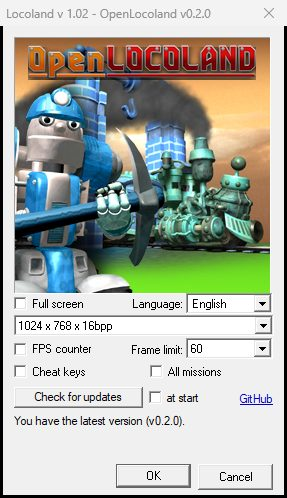
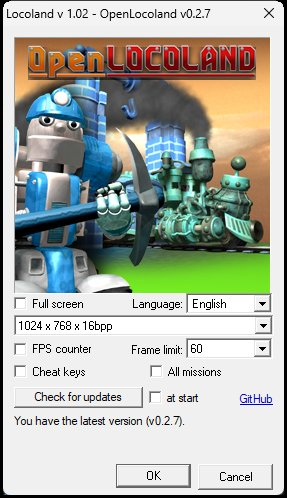
Pictures for v0.2.7: the launcher (v0.2.7, the update check) and Setup's language list retaken in English and Polish; The Factory, the maintainer's map made in the editor, in play and in the editor in README's table

diff --git a/README.md b/README.md
@@ -57,6 +57,8 @@ The [trailer](https://www.youtube.com/watch?v=04BeRSnfL6o) and more videos of th
 |---|---|
 | ![A battle](docs/img/battle.jpg) | ![The custom maps page](docs/img/custom-maps-en.jpg) |
 | A battle over the lava at 1920 x 1080 | Custom maps: POLIGON, your own maps and the editor |
+| ![The Factory in play](docs/img/thefactory-play-en.jpg) | ![The Factory in the editor](docs/img/thefactory-editor-en.jpg) |
+| The Factory - a map made in the editor (Dysprohol) | The Factory in the editor: the enemy's base |
 | ![The map editor](docs/img/editor-factory-en.jpg) | ![The train arrivals](docs/img/arrivals-en.jpg) |
 | The editor on POLIGON: the two factories | The trains that come during the mission |
 | ![A train's panel](docs/img/train-panel-en.jpg) | ![A train guarding an area](docs/img/area-watch-en.jpg) |
